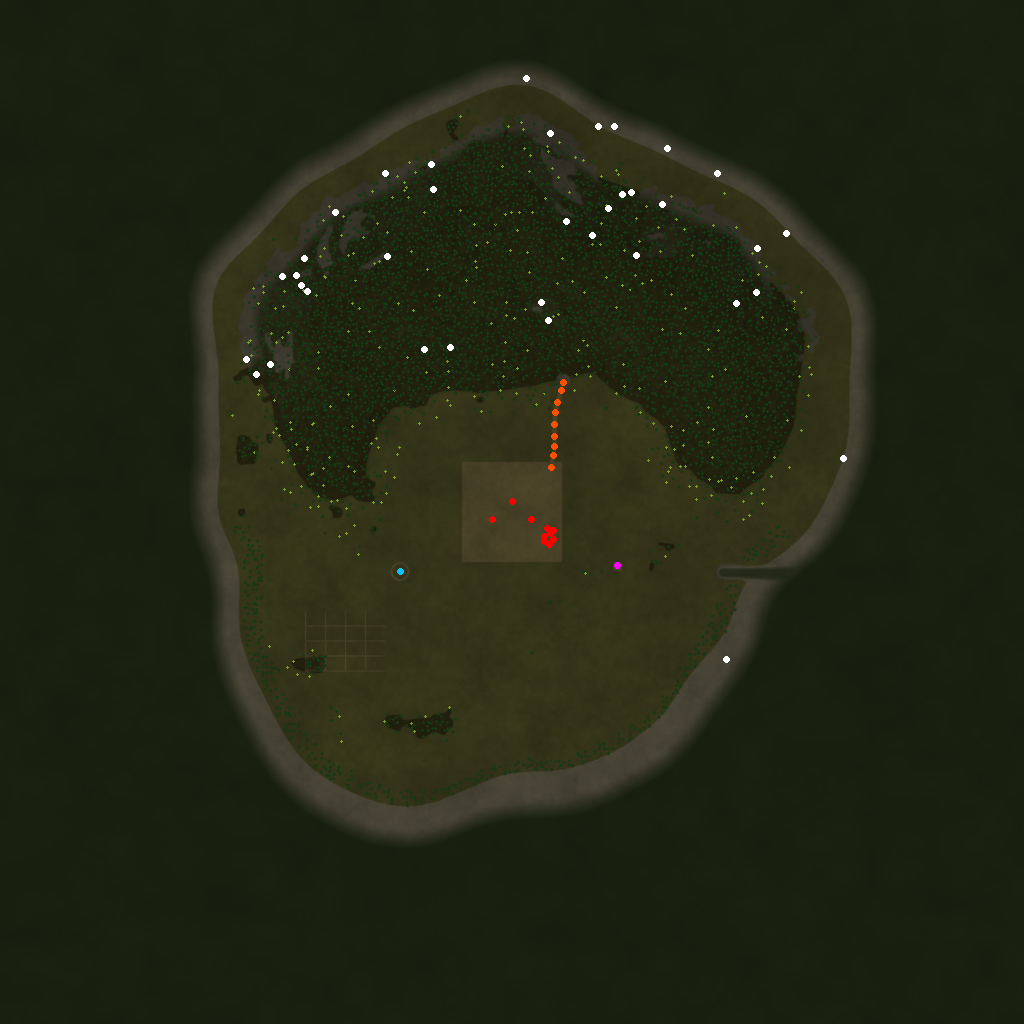
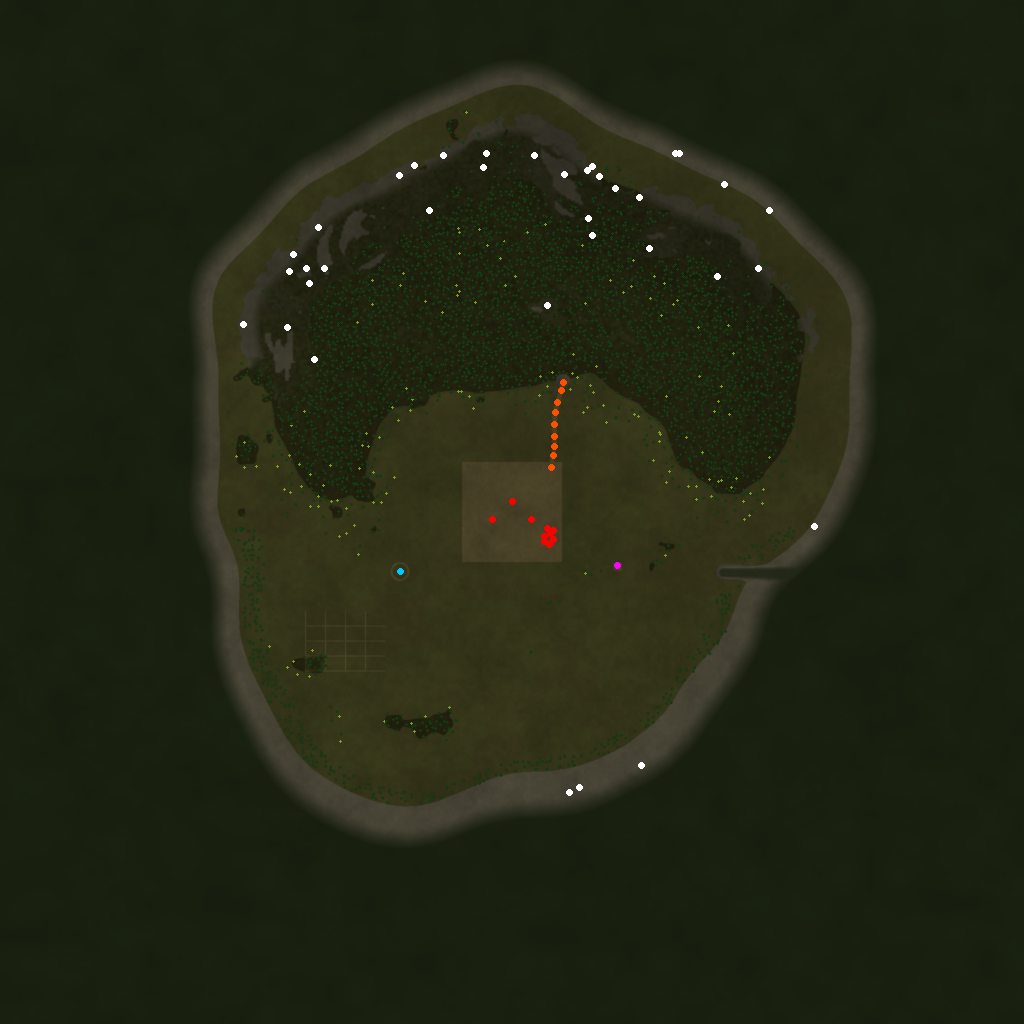
Slope-seated vegetation/rocks (517 -> 27 placecheck failures), placecheck runs after every world build; gear-slot planning note; navmesh generation steps + empty navmesh mission

diff --git a/spikes/T_terrain/tools/objects.py b/spikes/T_terrain/tools/objects.py
@@ -61,6 +61,20 @@ class Placer:
     def ground(self, x, z):
         return terrain.bilinear(self.h, x, z)
 
+    def ground_min(self, x, z, r, n=12):
+        """Lowest terrain height on a ring of radius r around (x, z) (and the centre). Used to seat plants and rocks
+        on slopes: placing by the centre height left the downhill side floating (placecheck, 2026-09-27)."""
+        a = np.linspace(0, 2 * np.pi, n, endpoint=False)
+        return min(self.ground(x, z), min(self.ground(x + r * np.cos(t), z + r * np.sin(t)) for t in a))
+
+    def seat_plant(self, x, z, r, sink=0.06, max_embed=0.45):
+        """y_offset that sinks a plant's base `sink` below the lowest ground within r, or None if the slope is too
+        steep to do that without burying the stem more than max_embed (placecheck rule 'plant')."""
+        drop = self.ground(x, z) - self.ground_min(x, z, r)
+        if drop + sink > max_embed:
+            return None
+        return -drop - sink
+
     def place(self, p3d, x, z, yaw, y_offset=0.0, scale=1.0, pitch=0.0, roll=0.0, kind="object", y_abs=None):
         bc, how = self.bc(p3d)
         if bc is None:
@@ -183,10 +197,18 @@ def place_vegetation(pl, T, F, rng, pads, spacing=10.0):
                     p3d = pick(rng, SPRUCE)
                 else:
                     p3d = pick(rng, BROADLEAF)
-                pl.place(p3d, x, z, rng.uniform(0, 360), scale=rng.uniform(0.82, 1.08), kind="tree")
+                s = rng.uniform(0.82, 1.08)
+                yo = pl.seat_plant(x, z, 0.6 * s)
+                if yo is None:
+                    continue                           # too steep for a trunk to sit right
+                pl.place(p3d, x, z, rng.uniform(0, 360), y_offset=yo, scale=s, kind="tree")
                 n_tree += 1
             elif r < f * 0.92 + 0.10 * (1 - abs(f - 0.4) * 1.5):
-                pl.place(pick(rng, BUSHES), x, z, rng.uniform(0, 360), scale=rng.uniform(0.8, 1.15), kind="bush")
+                s = rng.uniform(0.8, 1.15)
+                yo = pl.seat_plant(x, z, 1.2 * s, max_embed=0.6)   # bushes spread wide at the base
+                if yo is None:
+                    continue
+                pl.place(pick(rng, BUSHES), x, z, rng.uniform(0, 360), y_offset=yo, scale=s, kind="bush")
                 n_bush += 1
     return n_tree, n_bush
 
@@ -206,7 +228,11 @@ def place_coastal_pines(pl, T, rng):
                     and T["road_d"][j, i] > 12 and rng.random() < 0.55:
                 p3d = rng.choice([r"dz\plants\tree\t_pinussylvestris_2s.p3d", r"dz\plants\tree\t_pinussylvestris_3s.p3d",
                                   r"dz\plants\tree\t_pinussylvestris_2sb.p3d"])
-                pl.place(str(p3d), x, z, rng.uniform(0, 360), scale=rng.uniform(0.8, 1.05), kind="tree")
+                s = rng.uniform(0.8, 1.05)
+                yo = pl.seat_plant(x, z, 0.6 * s)
+                if yo is None:
+                    continue
+                pl.place(str(p3d), x, z, rng.uniform(0, 360), y_offset=yo, scale=s, kind="tree")
                 n += 1
     return n
 
@@ -237,11 +263,13 @@ def _place_rock(pl, p3d, x, z, rng, scale=None):
     info = odol_info(os.path.join(P, p3d))
     s = scale if scale else rng.uniform(0.5, 0.9)
     height = (info["bmax"][1] - info["bmin"][1]) * s if info else 3.0
-    # sink so the rock sits in the slope rather than on it: origin = ground - 25..40 % of its height,
-    # measured from the bounding-box bottom
+    # sink so the rock sits in the slope rather than on it: its bottom goes 15..30 % of its height below the LOWEST
+    # ground under its footprint (the centre height left rocks floating up to 4.8 m downhill - placecheck 2026-09-27)
     bottom = (info["bc"][1] + info["bmin"][1]) * s if info else 0.0
-    sink = rng.uniform(0.25, 0.4) * height
-    pl.place(p3d, x, z, rng.uniform(0, 360), y_offset=-bottom - sink, scale=s,
+    radius = 0.6 * max(info["bmax"][0] - info["bmin"][0], info["bmax"][2] - info["bmin"][2]) * s if info else 1.5
+    drop = pl.ground(x, z) - pl.ground_min(x, z, radius, n=16)
+    sink = rng.uniform(0.2, 0.35) * height
+    pl.place(p3d, x, z, rng.uniform(0, 360), y_offset=-bottom - drop - sink, scale=s,
              pitch=rng.uniform(-8, 8), roll=rng.uniform(-8, 8), kind="rock")
 
 

diff --git a/spikes/T_terrain/build_world.py b/spikes/T_terrain/build_world.py
@@ -705,5 +705,15 @@ def write_world_ce():
         f.write(b'<?xml version="1.0" encoding="UTF-8" standalone="yes" ?>\n<env>\n\t<territories>\n\t</territories>\n</env>\n')
 
 
+def run_placecheck():
+    """Float/sink check of everything baked or spawned on the island (japan_dev/tools/placecheck, cached)."""
+    dev = os.path.dirname(os.path.dirname(HERE))
+    r = subprocess.run([sys.executable, os.path.join(dev, "tools", "placecheck", "check.py"), "island"])
+    return r.returncode
+
+
 if __name__ == "__main__":
-    sys.exit(main(sys.argv[1:]))
+    rc = main(sys.argv[1:])
+    if rc in (0, None) and "--previews" not in sys.argv:
+        run_placecheck()
+    sys.exit(rc)

diff --git a/mission/navmesh.japantestisland/init.c b/mission/navmesh.japantestisland/init.c
@@ -1,0 +1,4 @@
+// Empty mission for NavMeshGenerator runs (japan_dev/NAVMESH_STEPS.md). No economy, nothing spawns.
+void main()
+{
+}

diff --git a/playbook/GEAR_SLOTS.md b/playbook/GEAR_SLOTS.md
@@ -1,0 +1,49 @@
+# Gear slots: planning note (Stephen, 2026-09-27)
+
+**Stephen's rule:** map period gear onto DayZ's player slots so that items **don't overlap**. If about 90 % of the
+outfits for a slot's body area include something by default (for example the obi), either bake it in and retire
+the slot, or ship the garments without it and make it a separate item in that slot. Decide per slot before any
+wardrobe work starts. Clothing is **one shared set for players and infected** (G0 decision 6).
+
+**Vanilla player slots** (`SurvivorBase attachments[]`, `P:\DZ\characters\data\config.cpp`): Headgear, Mask,
+Eyewear, Gloves, Armband, Body, Vest, Back, Hips, Legs, Feet, Shoulder and Melee (the two long-item carry slots on
+the back). Not wearable slots: Head (the head model itself), Hands and LeftHand (held items), Splint_Right (medical).
+
+| Slot | Vanilla use | Period candidates (to research) | Overlap / notes |
+|---|---|---|---|
+| Headgear | Hats, helmets | Kasa straw hats, jingasa, kabuto helmet, eboshi, zukin hood, the komuso basket hat | The komuso basket covers the whole head, so it may need to hide the Mask slot |
+| Mask | Masks, balaclavas | Menpo/menpō face armour, fukumen face cloth, tenugui tied over the mouth | Could conflict with helmet cheek guards (kabuto fukigaeshi); check the fit |
+| Eyewear | Glasses | Little period use | Probably **leave empty**; a slot can simply go unused |
+| Gloves | Gloves | Tekkō hand guards, kote (armoured sleeves) | Kote cover the forearm and hand, so they must fit under a kimono sleeve |
+| Armband | Team armband | **Tasuki**, the cord that ties sleeves back for work and fighting; or a clan-mon cloth | Tasuki is a good visual and needs no new slot logic |
+| Body | Shirts, jackets | Kosode, kimono, juban, work jackets (hanten, happi) | Knee length at most for players and infected (floor-length breaks when legs move) |
+| Vest | Plate carriers, vests with cargo | Samurai dō (with sode), **or** haori/jinbaori over the kimono | **Conflict:** armour and haori can't both be worn. Decide whether the haori is Vest or part of Body |
+| Back | Backpacks | Oizuru pilgrim frame, furoshiki bundle, seoi-kago basket, **sashimono** banner | A sashimono and a backpack both want the back |
+| Hips | Belts (holster/knife/canteen attachments) | **Obi** | See the obi decision below |
+| Legs | Trousers | Hakama, momohiki trousers, fundoshi-only (bare legs, NPC/infected only per the playbook) | Kyahan shin wraps: part of Legs, or part of Feet? |
+| Feet | Shoes, boots | Waraji, zōri or geta, worn with tabi | Tabi are best built into the footwear item (as the spike did), so no skin seam shows |
+| Shoulder / Melee | Long weapons carried on the back | Yumi, yari, naginata, matchlock | **Swords were worn at the obi, not on the back.** A katana on the back is the ninja myth. See below |
+
+## The obi decision (Stephen's example)
+
+- **Option A: baked in.** Every kimono mesh includes its obi, and the Hips slot is retired or left for rare items.
+  - Simple and always looks right.
+  - The obi carries no gameplay.
+- **Option B: a separate Hips item** (lead's recommendation, for Stephen to decide).
+  - Kimonos ship with only a thin under-cord (koshihimo), so they still look closed without an obi.
+  - The obi is the Hips item, exactly like vanilla belts, with **attachment slots**:
+    - katana and wakizashi thrust through it (period-correct sword carry, instead of a sword on the back)
+    - tantō
+    - inrō/netsuke pouch
+    - gourd canteen
+  - It is also a loot or crafting drop.
+  - The obi becomes the samurai's gear anchor. Vanilla belts already work this way, so it is proven engine behaviour.
+
+## Still to decide before the wardrobe work
+
+1. Obi: A or B.
+2. Haori: Vest or part of Body.
+3. Sashimono: yes or no, and whether it blocks backpacks.
+4. Kyahan: Legs or Feet.
+5. Eyewear: leave empty?
+6. Swords at the obi (needs B) vs vanilla back carry.

diff --git a/NAVMESH_STEPS.md b/NAVMESH_STEPS.md
@@ -1,0 +1,36 @@
+# Generating the test island's navmesh (Stephen, ~15 min, one time)
+
+**Why:** the navmesh is the walking map that zombies and animals use. The island currently borrows vanilla
+Livonia's as a stopgap, which lets it boot but is wrong for AI. These steps make our own. They need to be redone
+only after the terrain or baked objects change. Our build switches to the new file automatically.
+
+**Before you start:** the live server can keep running (it uses its own port). The **Japan test server
+(`start-japan-test-island.bat`) must be off.** The P: drive must exist: if `P:\JP` isn't there, run
+`subst P: D:\DayZToolsExtract` in a command prompt first.
+
+## Steps
+
+1. Double-click `D:\DayZ-Server_AI-20260907-MultiMap\start-japan-navmesh-server.bat`.
+   - A DayZDiag window opens. It is the game engine running as a data server on port 2412, loading the island with
+     an empty mission.
+2. Wait about 30-60 s until it has finished loading. The window stops changing.
+3. Open `C:\Program Files (x86)\Steam\steamapps\common\DayZ Tools\Bin\NavMeshGenerator\NavMeshGenerator_x64.exe`.
+4. In NavMeshGenerator, menu **Generation → Connect Data Server**.
+   - It should report it is connected. If it asks for a port or address, use `127.0.0.1` and `2412`.
+5. Menu **Generation → Start generation**.
+   - On a 2 × 2 km island this should take minutes, not hours. Wait until it says it has finished.
+6. Menu **File → Save NavMesh** and save as exactly:
+   `P:\JP\worlds\testisland\navmesh\japantestisland.nm`
+   (create the `navmesh` folder if the dialog needs it).
+7. Close NavMeshGenerator, then close the DayZDiag window.
+8. Tell me it's saved.
+   - I rebuild the world: about 15 s, using our own navmesh instead of Livonia's.
+   - Then the next test boot has zombies and animals walking the island properly.
+
+## If something differs
+
+- The menu names come from Bohemia's documentation and weren't checked on this machine. If a label is different,
+  pick the closest one, or send me a screenshot.
+- If DayZDiag shows an error or closes, just tell me. Its log is in
+  `D:\DayZ-Server_AI-20260907-MultiMap\ServerProfileJapanNavmesh\`, and I'll read it.
+- Source for the procedure: https://community.bistudio.com/wiki/DayZ:Generating_navigation_mesh
